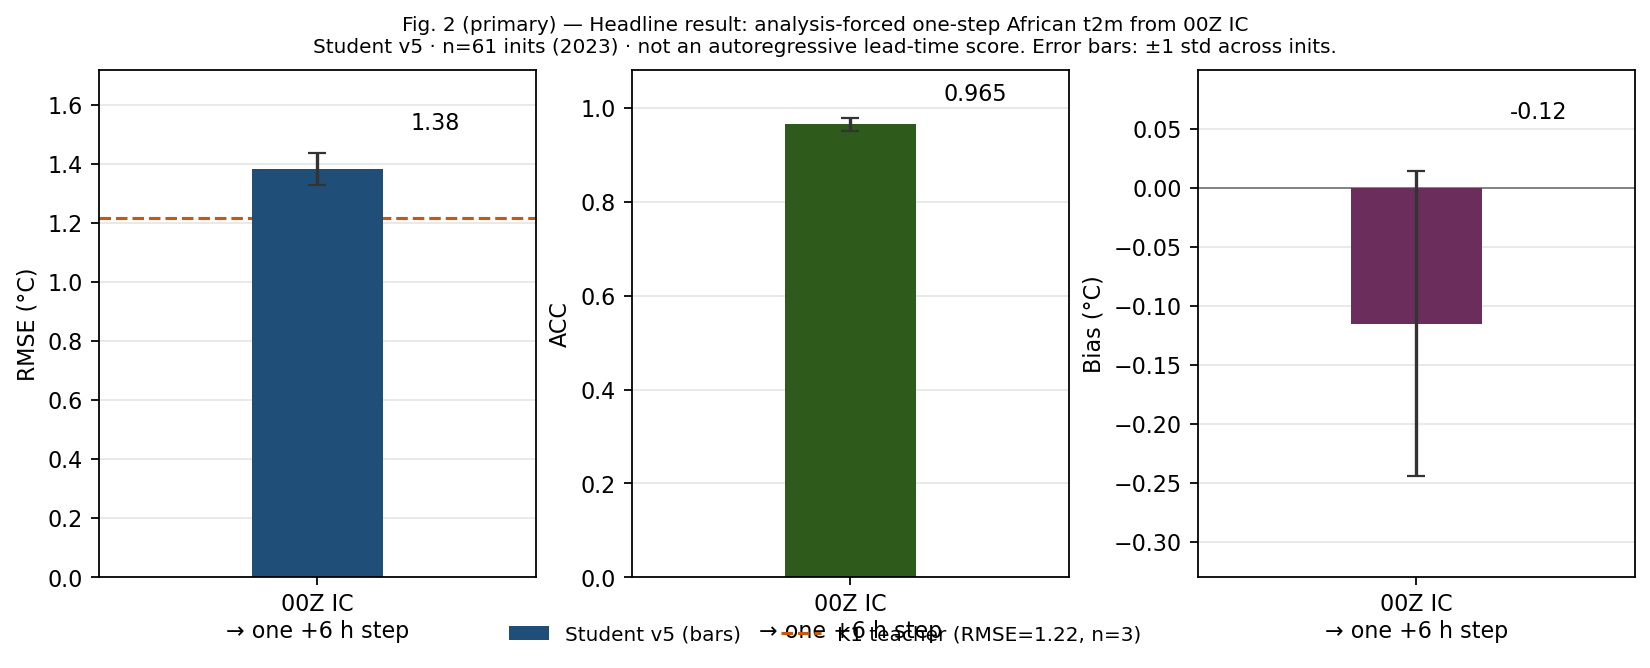
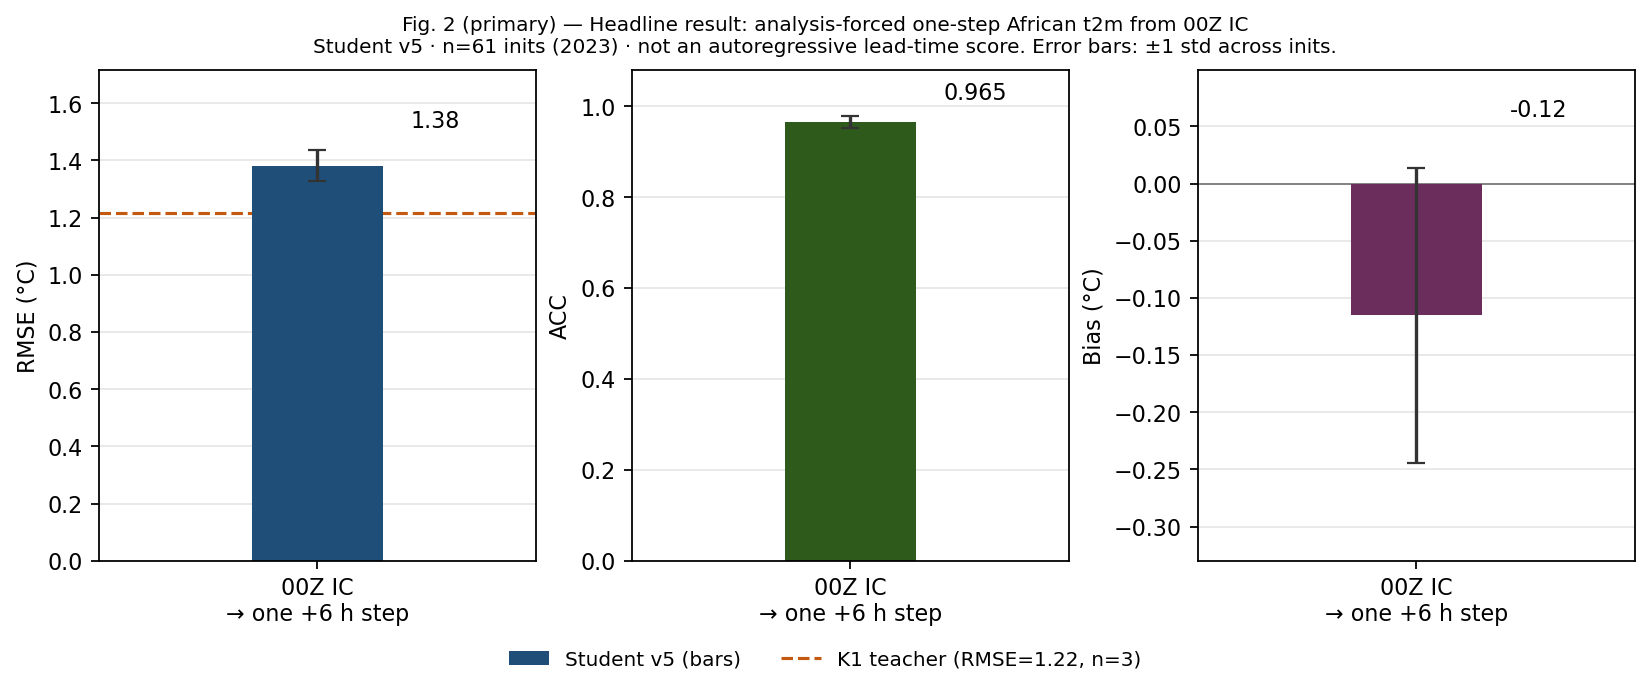
Place Fig. 2 primary legend outside the axes.
Keep Student v5 / K1 labels readable without colliding with panel tick labels.

diff --git a/scripts/plot_mvula_report_fig02_fig03.py b/scripts/plot_mvula_report_fig02_fig03.py
@@ -402,7 +402,7 @@ def fig2_primary_00z(student, k1) -> None:
         float(np.mean([float(r["variables"]["t2m"]["rmse"]) for r in k1_rows])) if k1_rows else float("nan")
     )
 
-    fig, axes = plt.subplots(1, 3, figsize=(10.2, 4.0), constrained_layout=True)
+    fig, axes = plt.subplots(1, 3, figsize=(10.2, 4.2), layout="constrained")
     panels = [
         (axes[0], "RMSE (°C)", float(rmse.mean()), float(rmse.std(ddof=1)), k1_rmse, "#1f4e79"),
         (axes[1], "ACC", float(acc.mean()), float(acc.std(ddof=1)), None, "#2e5a1c"),
@@ -471,11 +471,10 @@ def fig2_primary_00z(student, k1) -> None:
         )
     fig.legend(
         handles=legend_handles,
-        loc="lower center",
+        loc="outside lower center",
         ncol=2,
         frameon=False,
         fontsize=9,
-        bbox_to_anchor=(0.5, -0.02),
     )
 
     fig.suptitle(
